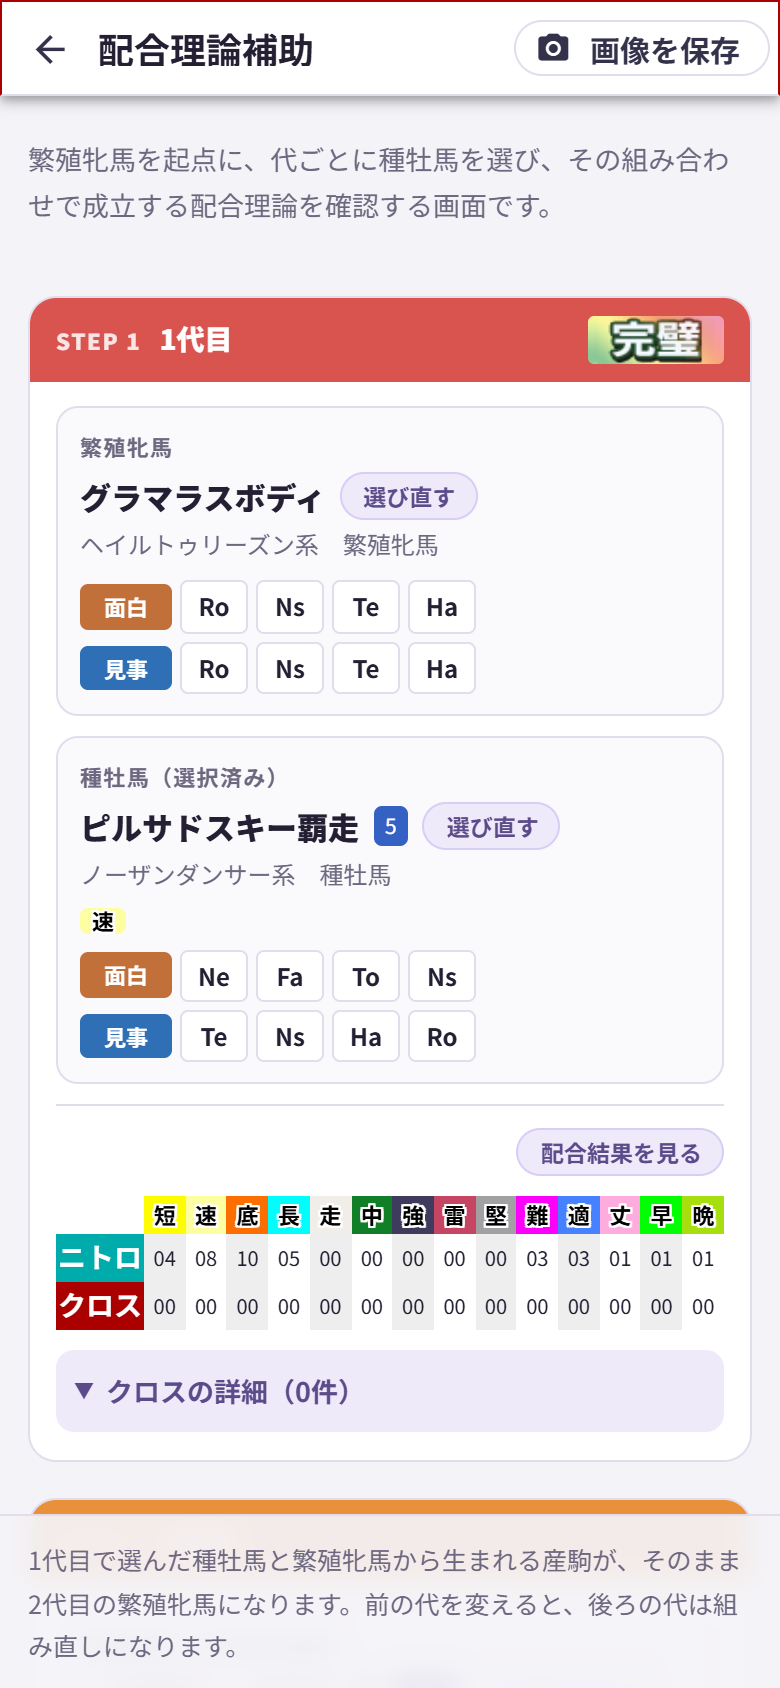
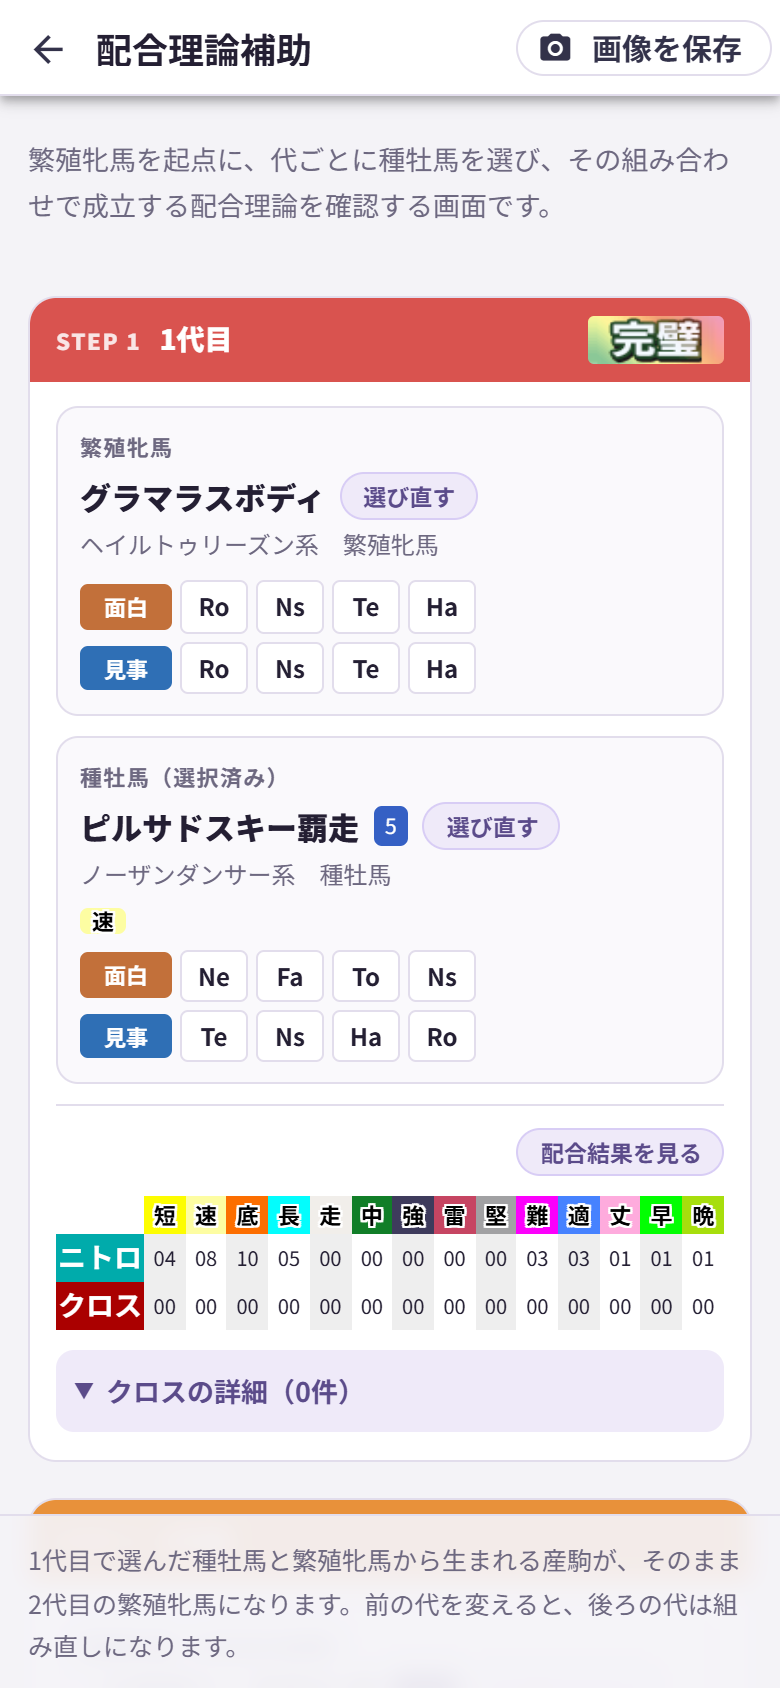
配合理論補助の上のバーに出る赤い枠を消す
style.css の header 全体への枠がこのバーにも効いていた。
取説の画像14〜16も撮り直す。

diff --git a/service-worker.js b/service-worker.js
@@ -1,5 +1,5 @@
 // cache name, cache files
-var CACHE_NAME = 'dabimas-factor-v20261027-01';
+var CACHE_NAME = 'dabimas-factor-v20261028-01';
 var BASE_PATH = self.location.pathname.replace(/\/service-worker\.js$/, '/');
 var APP_SHELL_URL = BASE_PATH + 'index.html';
 // プリキャッシュは「実行時に実際に使われるもの」だけに絞る。

diff --git a/css/unified.css b/css/unified.css
@@ -1171,6 +1171,8 @@
   flex: 0 0 auto;
   padding: 0 4px;
   background: #fff;
+  /* style.css の header 全体に付く赤い枠を消し、下の罫線だけ残す。 */
+  border: 0;
   border-bottom: 1px solid #e2ddec;
 }
 
